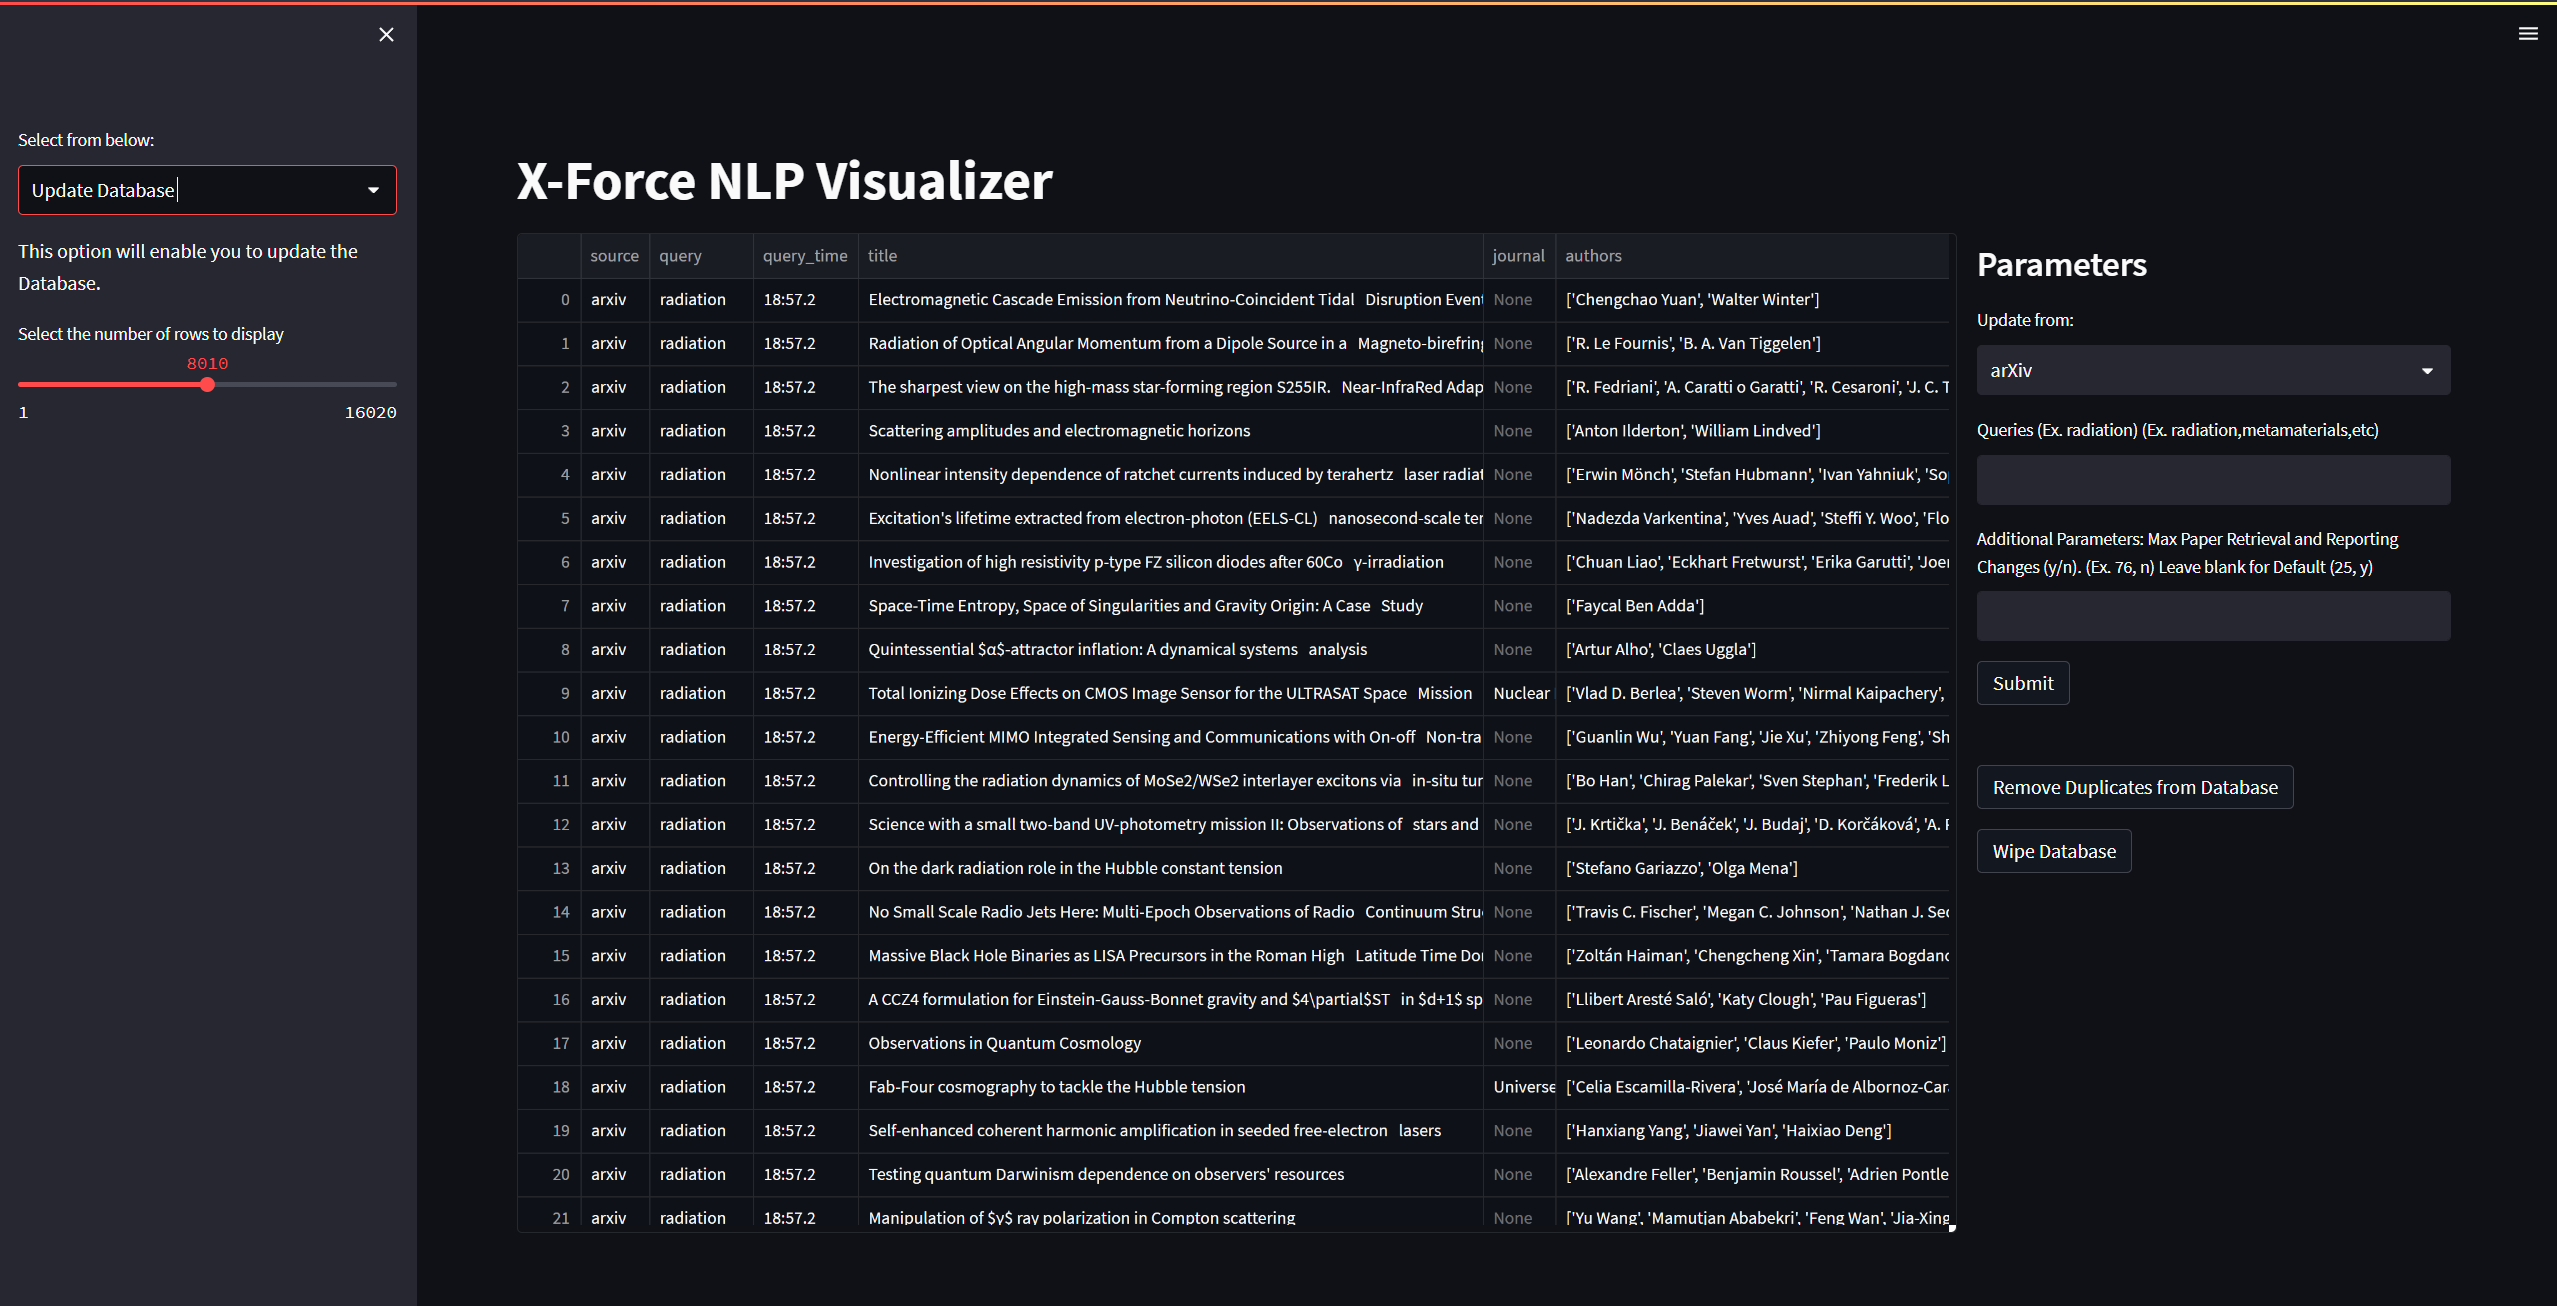
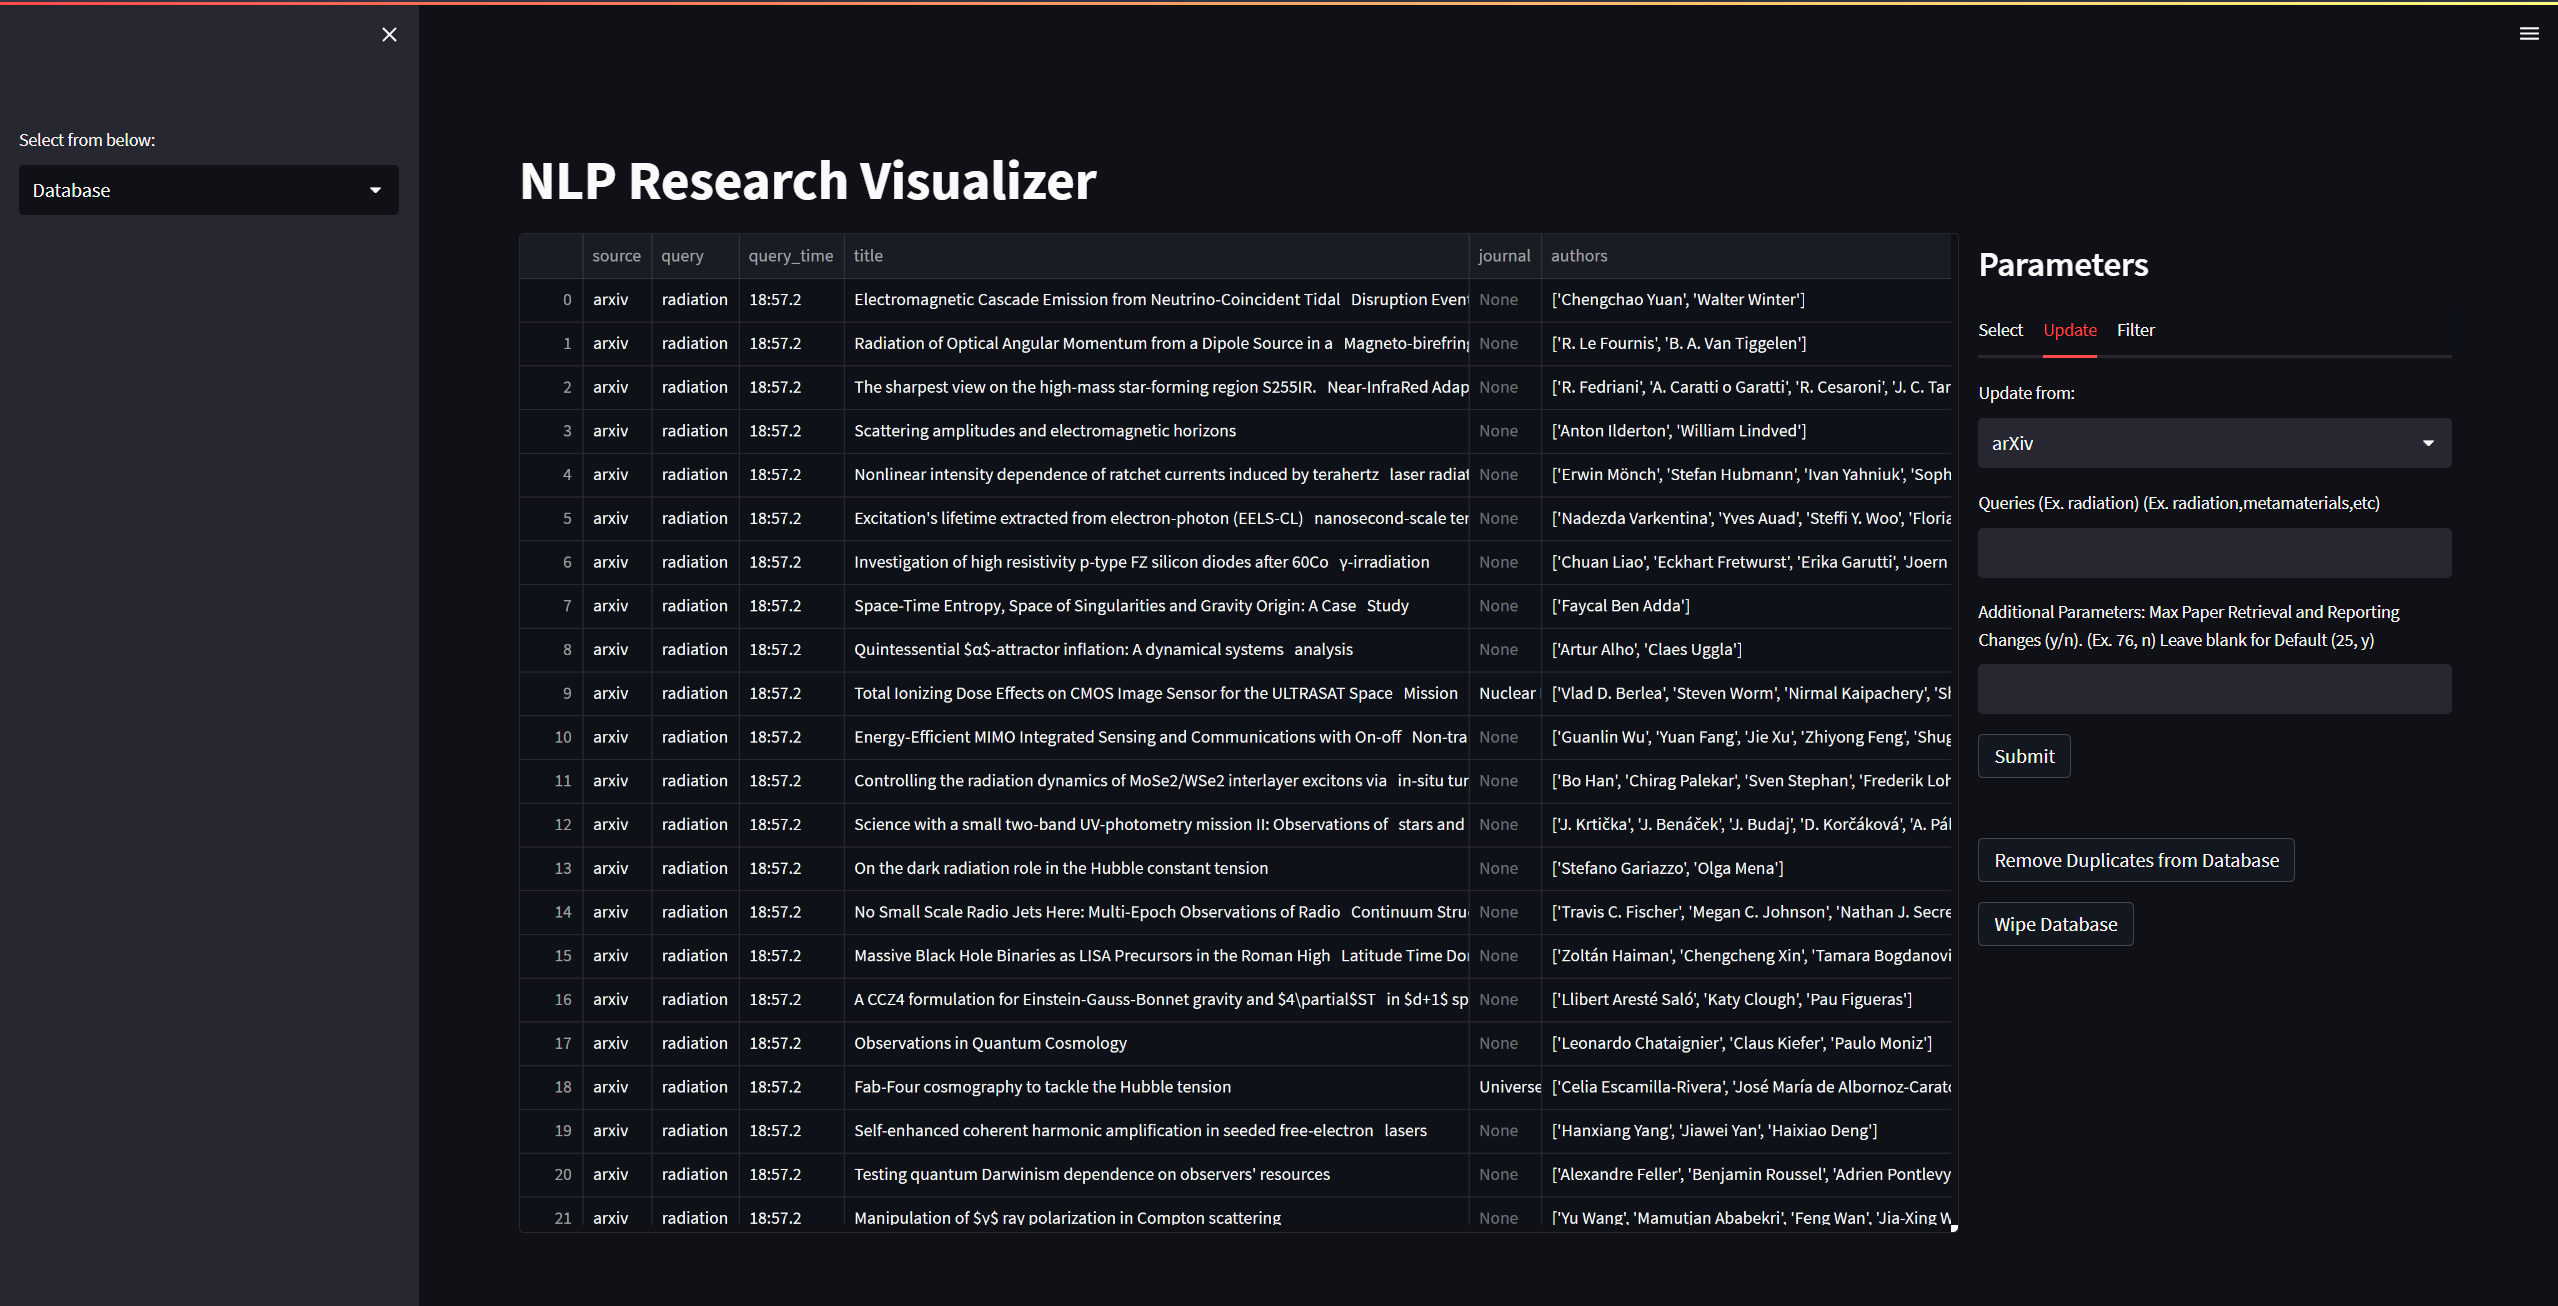
Updated README, Updated Filter UI, proxies temp.

diff --git a/code/Streamlit/app.py b/code/Streamlit/app.py
@@ -176,81 +176,84 @@ def update_database(col1):
 def filter_database(col1):
     
     if session.db_selected:
-
-        working_len = len(session.db_working)
-
-        if working_len > 1:
-            working_len -= 1
-
-        start_row = helper.st.number_input("Start Row", min_value=0, max_value=len(session.db_working))
-        end_row = helper.st.number_input("End Row", min_value=start_row, max_value=len(session.db_working), value=len(session.db_working))
-        if helper.st.button("Filter Rows"):
-            session.db_manager.filter_curr_rows(start_row, end_row)
-            session.db_working = session.db_manager.get_current_working_db()
-
+        
+        # Row Filtering
+        with helper.st.expander("Row Filters"):
+            start_row = helper.st.number_input("Start Row", min_value=0, max_value=len(session.db_working))
+            end_row = helper.st.number_input("End Row", min_value=start_row, max_value=len(session.db_working), value=len(session.db_working))
+            if helper.st.button("Filter Rows"):
+                session.db_manager.filter_curr_rows(start_row, end_row)
+                session.db_working = session.db_manager.get_current_working_db()
+        
         # Source Filtering
-        sources = session.db_working["source"].unique().tolist()
-        sources.append("ALL")
-        selected_sources = helper.st.multiselect("Select Sources", sources, default=["ALL"])
-        if helper.st.button("Filter Sources"):
-            session.db_manager.filter_curr_source(selected_sources)
-            session.db_working = session.db_manager.get_current_working_db()
+        with helper.st.expander("Source Filters"):
+            sources = session.db_working["source"].unique().tolist()
+            sources.append("ALL")
+            selected_sources = helper.st.multiselect("Select Sources", sources, default=["ALL"])
+            if helper.st.button("Filter Sources"):
+                session.db_manager.filter_curr_source(selected_sources)
+                session.db_working = session.db_manager.get_current_working_db()
 
         # Query Filtering
-        queries = session.db_working["query"].unique().tolist()
-        queries.append("ALL")
-        selected_queries = helper.st.multiselect("Select Queries", queries, default=["ALL"])
-        if helper.st.button("Filter Queries"):
-            session.db_manager.filter_curr_query(selected_queries)
-            session.db_working = session.db_manager.get_current_working_db()
-
+        with helper.st.expander("Query Filters"):
+            queries = session.db_working["query"].unique().tolist()
+            queries.append("ALL")
+            selected_queries = helper.st.multiselect("Select Queries", queries, default=["ALL"])
+            if helper.st.button("Filter Queries"):
+                session.db_manager.filter_curr_query(selected_queries)
+                session.db_working = session.db_manager.get_current_working_db()
+                
         # Title Filtering
-        title_values = helper.st.text_input("Title Values (comma-separated)")
-        title_and_or_condition = helper.st.selectbox("Title Condition", ["AND", "OR"], index=0)
-        if helper.st.button("Filter Titles"):
-            session.db_manager.filter_curr_title(title_values.split(','), 0 if title_and_or_condition == "AND" else 1)
-
+        with helper.st.expander("Title Filters"):
+            title_values = helper.st.text_input("Title Values (comma-separated)")
+            title_and_or_condition = helper.st.selectbox("Title Condition", ["AND", "OR"], index=0)
+            if helper.st.button("Filter Titles"):
+                session.db_manager.filter_curr_title(title_values.split(','), 0 if title_and_or_condition == "AND" else 1)
+        
         # Abstract Filtering
-        abstract_values = helper.st.text_input("Abstract Values (comma-separated)")
-        abstract_and_or_condition = helper.st.selectbox("Abstract Condition", ["AND", "OR"], index=0)
-        if helper.st.button("Filter Abstracts"):
-            session.db_manager.filter_curr_abstract(abstract_values.split(','), 0 if abstract_and_or_condition == "AND" else 1)
-            session.db_working = session.db_manager.get_current_working_db()
-
+        with helper.st.expander("Abstract Filters"):
+            abstract_values = helper.st.text_input("Abstract Values (comma-separated)")
+            abstract_and_or_condition = helper.st.selectbox("Abstract Condition", ["AND", "OR"], index=0)
+            if helper.st.button("Filter Abstracts"):
+                session.db_manager.filter_curr_abstract(abstract_values.split(','), 0 if abstract_and_or_condition == "AND" else 1)
+                session.db_working = session.db_manager.get_current_working_db()
+                
         # Author Filtering
-        author_values = helper.st.text_input("Author Values (comma-separated)")
-        author_and_or_condition = helper.st.selectbox("Author Condition", ["AND", "OR"], index=0)
-        if helper.st.button("Filter Authors"):
-            session.db_manager.filter_curr_author(author_values.split(','), 0 if author_and_or_condition == "AND" else 1)
-            session.db_working = session.db_manager.get_current_working_db()
-
-        # Date Filtering 
-        start_date = helper.st.date_input("Start Date")
-        end_date = helper.st.date_input("End Date")
-        if helper.st.button("Filter Dates"):
-            session.db_manager.filter_curr_date(start_date, end_date)
-            session.db_working = session.db_manager.get_current_working_db()
-
+        with helper.st.expander("Author Filters"):
+            author_values = helper.st.text_input("Author Values (comma-separated)")
+            author_and_or_condition = helper.st.selectbox("Author Condition", ["AND", "OR"], index=0)
+            if helper.st.button("Filter Authors"):
+                session.db_manager.filter_curr_author(author_values.split(','), 0 if author_and_or_condition == "AND" else 1)
+                session.db_working = session.db_manager.get_current_working_db()
+        
+        # Date Filtering
+        with helper.st.expander("Date Filters"):
+            start_date = helper.st.date_input("Start Date")
+            end_date = helper.st.date_input("End Date")
+            if helper.st.button("Filter Dates"):
+                session.db_manager.filter_curr_date(start_date, end_date)
+                session.db_working = session.db_manager.get_current_working_db()
+                
         # Sorting
-        sort_on = helper.st.selectbox("Sort On", session.db_working.columns.tolist())
-        is_ascending = helper.st.checkbox("Ascending Order")
-        if helper.st.button("Sort"):
-            session.db_manager.sort_curr_db(sort_on, is_ascending)
-            session.db_working = session.db_manager.get_current_working_db()
-
-        # Reset Filters
+        with helper.st.expander("Sorting Options"):
+            sort_on = helper.st.selectbox("Sort On", session.db_working.columns.tolist())
+            is_ascending = helper.st.checkbox("Ascending Order")
+            if helper.st.button("Sort"):
+                session.db_manager.sort_curr_db(sort_on, is_ascending)
+                session.db_working = session.db_manager.get_current_working_db()
+                
+        # Reset Filters and Confirm Changes
         if helper.st.button("Clear Filters"):
             session.db_manager.clear_curr_db_filters()
             session.db_working = session.db_manager.get_current_working_db()
-
+            
         if helper.st.button("Confirm"):
             session.db_manager.confirm_db()
             session.db_working = session.db_manager.get_current_working_db()
-
+        
         display_database(col1)
 
     else:
-
         helper.st.warning("Please load a database in the \"Select\" tab before proceeding")
 
 def database(col1, col2):

diff --git a/README.md b/README.md
@@ -34,9 +34,7 @@ If you don't have `git` installed or if you prefer to download the files manuall
 ### Step 2: Set your proxies, if necessary
 Locate `proxies.txt` in the project root folder and input your proxies. Here is an example below:
 
-`http://proxy.example.com:8080`
-
-`https://proxy.example.com:200`
+![Proxy Config File](./images/readme/Proxy%20Config%20File.png)
 
 _Note: The first line is your HTTP proxy and the second line is your HTTPS proxy._
 
@@ -61,10 +59,15 @@ This section will guide you through the process of using X-Force NLP Visualizer'
 
 2. **Selecting & Creating a Database:** This tab allows you to load a pre-existing Database, or create a new Database.
 
+![Database Loading & Preview](./images/readme/Database%20Selection%20Interface.png)
+
 3. **Updating the Database:** This tab allows you to add entries by query to your selected Database.
+
+![Updating the Database](./images/readme/Updating%20Database%20Interface.png)
 
 4. **Filtering the Database:** This tab allows you to filter your selected Database.
 
+![Filtering Database](./images/readme/Filtering%20Database%20Interface.png)
 
 ---
 
